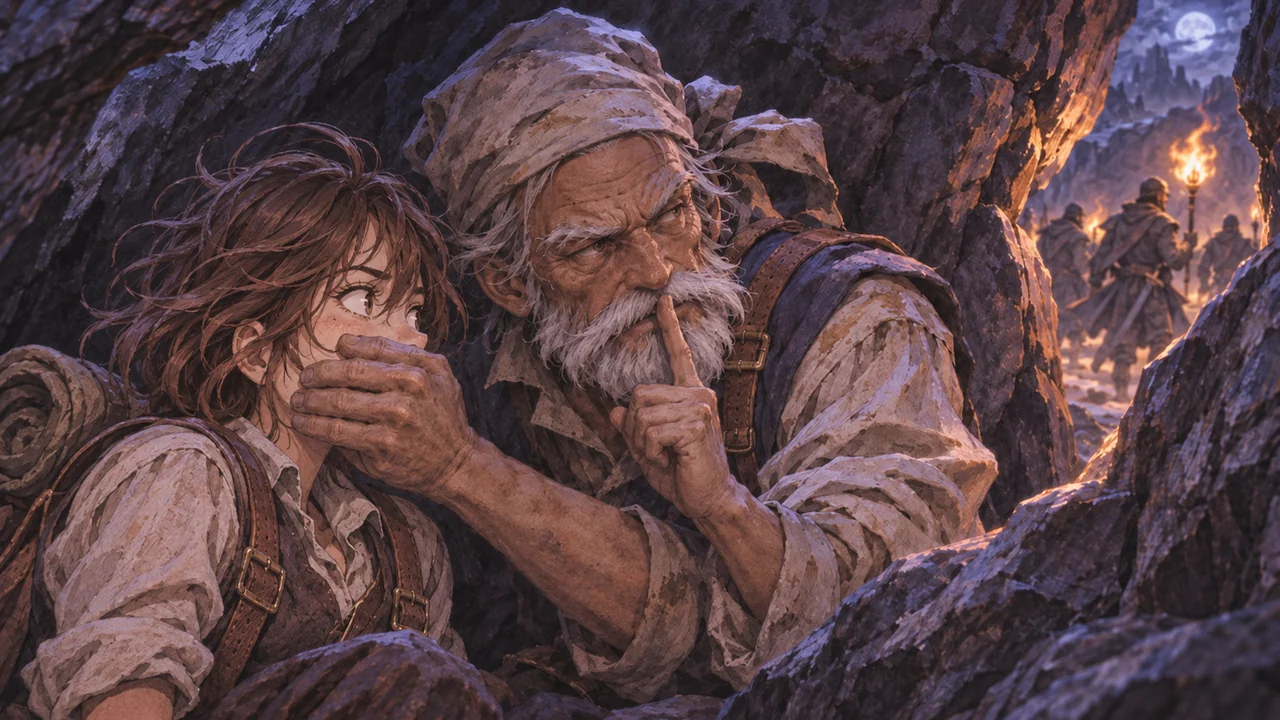
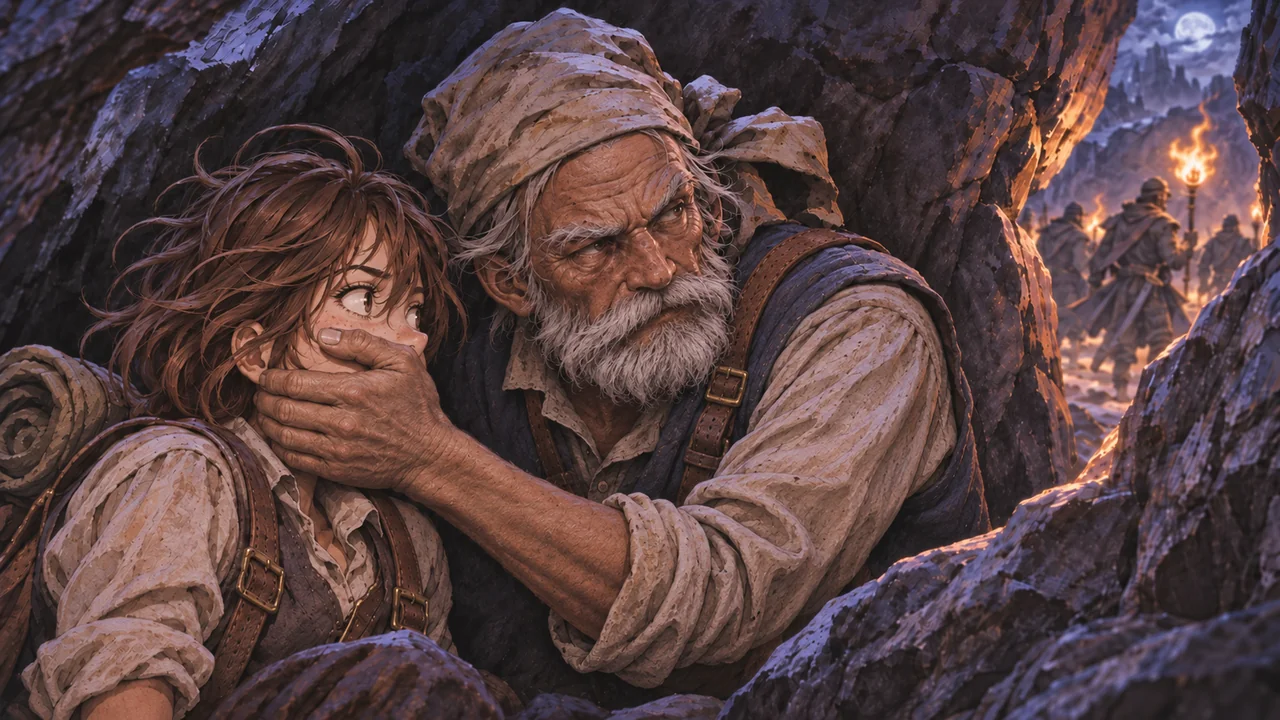
은신 컷 손 수정 (입막음 손만) (#154)
* 은신 컷: 입막음 손만 남기고 노인의 쉿 손 제거 (남·여)

Claude-Session: https://claude.ai/code/session_01SwHSdZUuqR4fiCaFb6o9ib

* 은신 컷(남): 여자 버전과 같은 입막음 손으로 재생성

Claude-Session: https://claude.ai/code/session_01SwHSdZUuqR4fiCaFb6o9ib

---------

diff --git a/games/autelia/index.html b/games/autelia/index.html
@@ -6,7 +6,7 @@
 <title>아우텔리아 (시제품)</title>
 <link rel="preconnect" href="https://fonts.googleapis.com">
 <link href="https://fonts.googleapis.com/css2?family=Noto+Sans+KR:wght@300;400;500;700&display=swap" rel="stylesheet">
-<link rel="stylesheet" href="css/game.css?v=152">
+<link rel="stylesheet" href="css/game.css?v=153">
 </head>
 <body>
 <div id="stage" tabindex="-1">
@@ -16,39 +16,39 @@
   <div id="boot">불러오는 중…</div>
 </div>
 <noscript><p style="padding:20px">이 게임은 JavaScript가 필요합니다.</p></noscript>
-<script src="js/config.js?v=152"></script>
-<script src="js/prologue/artmeta.js?v=152"></script>
-<script src="js/data.js?v=152"></script>
-<script src="js/mission_spans.js?v=152"></script>
-<script src="js/prologue/data.js?v=152"></script>
-<script src="js/prologue/text_intro.js?v=152"></script>
-<script src="js/story1.js?v=152"></script>
-<script src="js/story_hideout.js?v=152"></script>
-<script src="js/porto_ext.js?v=152"></script>
-<script src="js/prologue/intro_timeline.js?v=152"></script>
-<script src="js/core.js?v=152"></script>
-<script src="js/tint.js?v=152"></script>
-<script src="js/systems.js?v=152"></script>
-<script src="js/profile.js?v=152"></script>
-<script src="js/prologue/art.js?v=152"></script>
-<script src="js/prologue/art2.js?v=152"></script>
-<script src="js/prologue/engine.js?v=152"></script>
-<script src="js/prologue/scenes.js?v=152"></script>
-<script src="js/mission_evidence.js?v=152"></script>
-<script src="js/real_bridge.js?v=152"></script>
-<script src="js/world.js?v=152"></script>
-<script src="js/ui.js?v=152"></script>
-<script src="js/guide.js?v=152"></script>
-<script src="js/journal_tour.js?v=152"></script>
-<script src="js/first_mission_guide.js?v=152"></script>
-<script src="js/equip_tour.js?v=152"></script>
-<script src="js/scales/pss10_ko_park_seo_2010.js?v=152"></script>
-<script src="js/scales/perma_kperma_2019.js?v=152"></script>
-<script src="js/survey.js?v=152"></script>
-<script src="js/survey_ui.js?v=152"></script>
-<script src="js/sfx.js?v=152"></script>
-<script src="js/sfx_wire.js?v=152"></script>
-<script src="js/bgm.js?v=152"></script>
-<script src="js/main.js?v=152"></script>
+<script src="js/config.js?v=153"></script>
+<script src="js/prologue/artmeta.js?v=153"></script>
+<script src="js/data.js?v=153"></script>
+<script src="js/mission_spans.js?v=153"></script>
+<script src="js/prologue/data.js?v=153"></script>
+<script src="js/prologue/text_intro.js?v=153"></script>
+<script src="js/story1.js?v=153"></script>
+<script src="js/story_hideout.js?v=153"></script>
+<script src="js/porto_ext.js?v=153"></script>
+<script src="js/prologue/intro_timeline.js?v=153"></script>
+<script src="js/core.js?v=153"></script>
+<script src="js/tint.js?v=153"></script>
+<script src="js/systems.js?v=153"></script>
+<script src="js/profile.js?v=153"></script>
+<script src="js/prologue/art.js?v=153"></script>
+<script src="js/prologue/art2.js?v=153"></script>
+<script src="js/prologue/engine.js?v=153"></script>
+<script src="js/prologue/scenes.js?v=153"></script>
+<script src="js/mission_evidence.js?v=153"></script>
+<script src="js/real_bridge.js?v=153"></script>
+<script src="js/world.js?v=153"></script>
+<script src="js/ui.js?v=153"></script>
+<script src="js/guide.js?v=153"></script>
+<script src="js/journal_tour.js?v=153"></script>
+<script src="js/first_mission_guide.js?v=153"></script>
+<script src="js/equip_tour.js?v=153"></script>
+<script src="js/scales/pss10_ko_park_seo_2010.js?v=153"></script>
+<script src="js/scales/perma_kperma_2019.js?v=153"></script>
+<script src="js/survey.js?v=153"></script>
+<script src="js/survey_ui.js?v=153"></script>
+<script src="js/sfx.js?v=153"></script>
+<script src="js/sfx_wire.js?v=153"></script>
+<script src="js/bgm.js?v=153"></script>
+<script src="js/main.js?v=153"></script>
 </body>
 </html>
